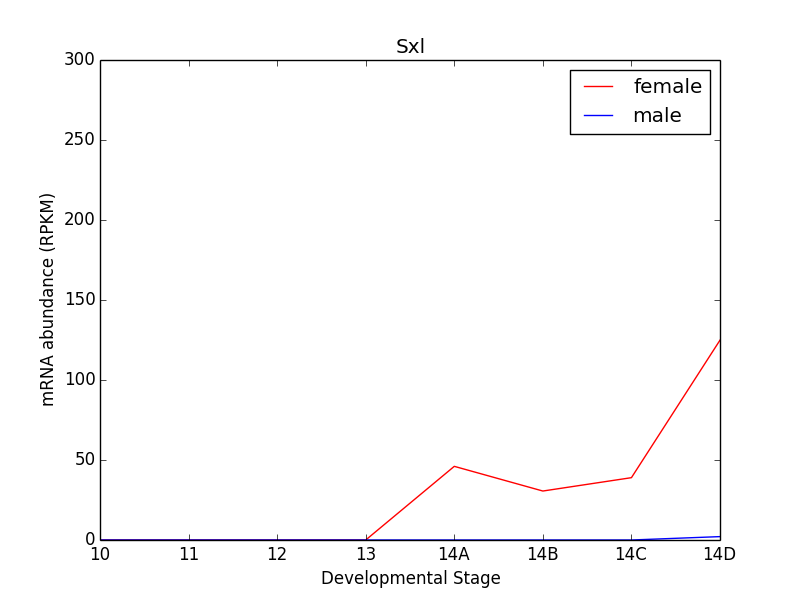
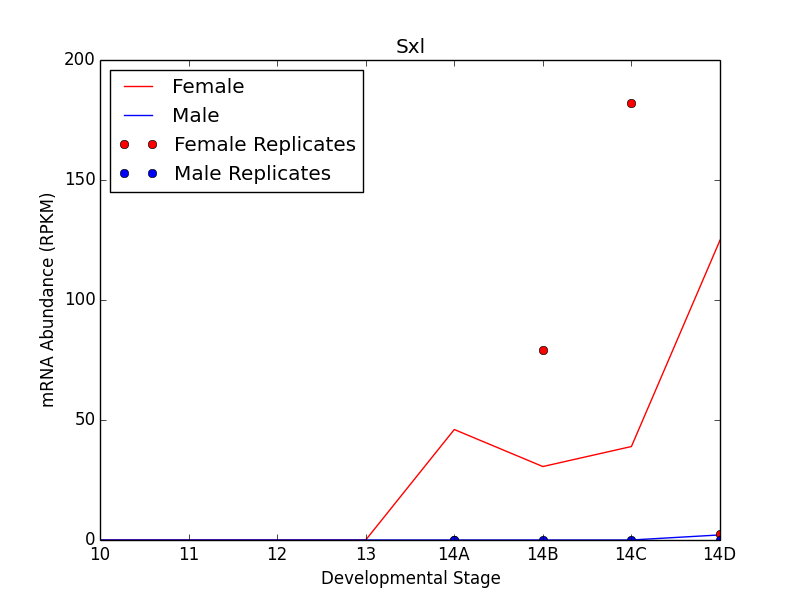
Problem one code and output

diff --git a/day3/lunch_assignment/sxl_timecourse.py b/day3/lunch_assignment/sxl_timecourse.py
@@ -1,0 +1,54 @@
+#!/usr/bin/env python
+
+import pandas as pd
+import matplotlib.pyplot as plt
+
+metadata = pd.read_csv("~/qbb2015/rawdata/samples.csv")
+
+rep_metadata = pd.read_csv("~/qbb2015/rawdata/replicates.csv")
+
+Sxl_f = []
+Sxl_i_f = []
+
+Sxl_m = []
+Sxl_i_m = []
+
+Sxl_r_f = []
+Sxl_r_i_f = []
+
+Sxl_r_m = []
+Sxl_r_i_m = []
+
+xbin = {"10":0, "11":1, "12":2, "13":3, "14A":4, "14B":5, "14C":6, "14D":7}
+
+for i, data in metadata.iterrows():
+      temp_ctab = pd.read_table("~/qbb2015/stringtie/%s/t_data.ctab" %(data["sample"]))
+      
+      if data["sex"] == "female":
+            Sxl_f.append(temp_ctab[temp_ctab["t_name"].str.contains("FBtr0331261")]["FPKM"].values)
+            Sxl_i_f.append(xbin[data["stage"]])
+      else:
+            Sxl_m.append(temp_ctab[temp_ctab["t_name"].str.contains("FBtr0331261")]["FPKM"].values)
+            Sxl_i_m.append(xbin[data["stage"]])
+            
+for i, data in rep_metadata.iterrows():
+      temp_ctab = pd.read_table("~/qbb2015/stringtie/%s/t_data.ctab" %(data["sample"]))
+      
+      if data ["sex"] == "female":
+            Sxl_r_f.append(temp_ctab[temp_ctab["t_name"].str.contains("FBtr0331261")]["FPKM"].values)
+            Sxl_r_i_f.append(xbin[data["stage"]])
+      else:
+            Sxl_r_m.append(temp_ctab[temp_ctab["t_name"].str.contains("FBtr0331261")]["FPKM"].values)
+            Sxl_r_i_m.append(xbin[data["stage"]])
+            
+plt.figure()
+plt.title("Sxl")
+plt.xlabel("Developmental Stage")
+plt.ylabel("mRNA Abundance (RPKM)")
+plt.plot(Sxl_i_f, Sxl_f, 'r')
+plt.plot(Sxl_i_m, Sxl_m, 'b')
+plt.plot(Sxl_r_i_f, Sxl_r_f, 'ro')
+plt.plot(Sxl_r_i_m, Sxl_r_m, 'bo')
+plt.legend(["Female","Male","Female Replicates","Male Replicates"],"best")
+plt.xticks(xbin.values(), xbin.keys())
+plt.savefig("timecourse.png")
